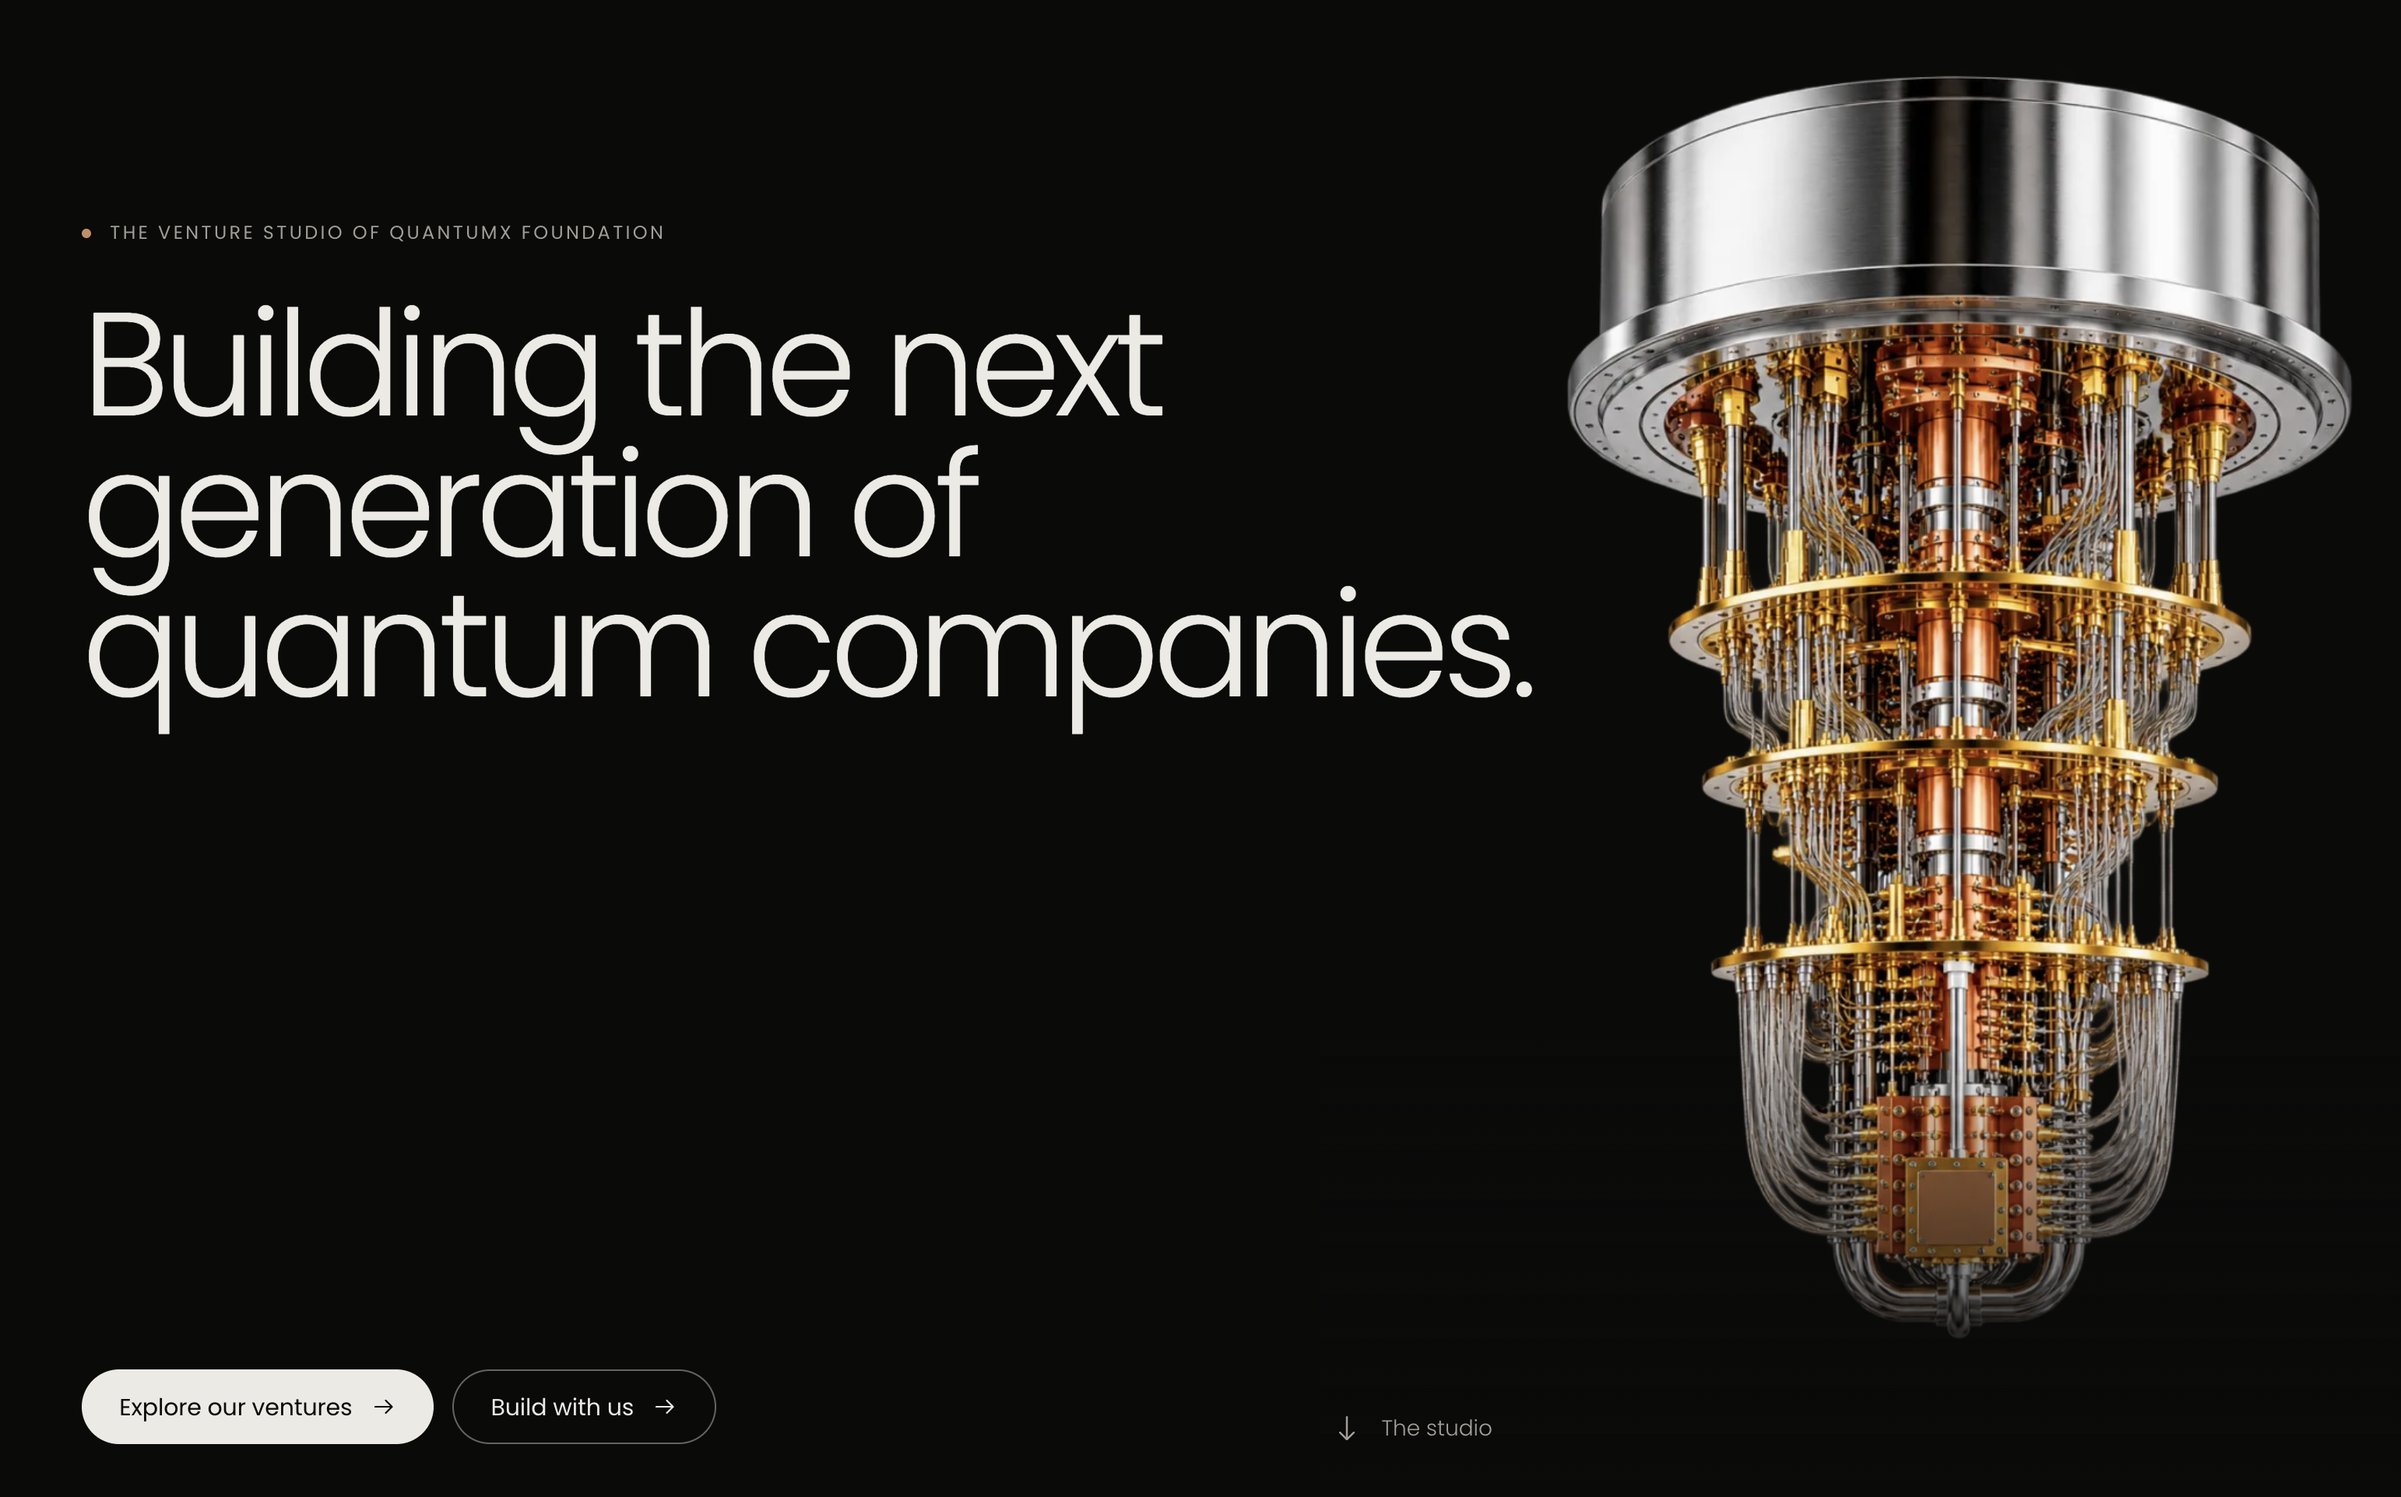
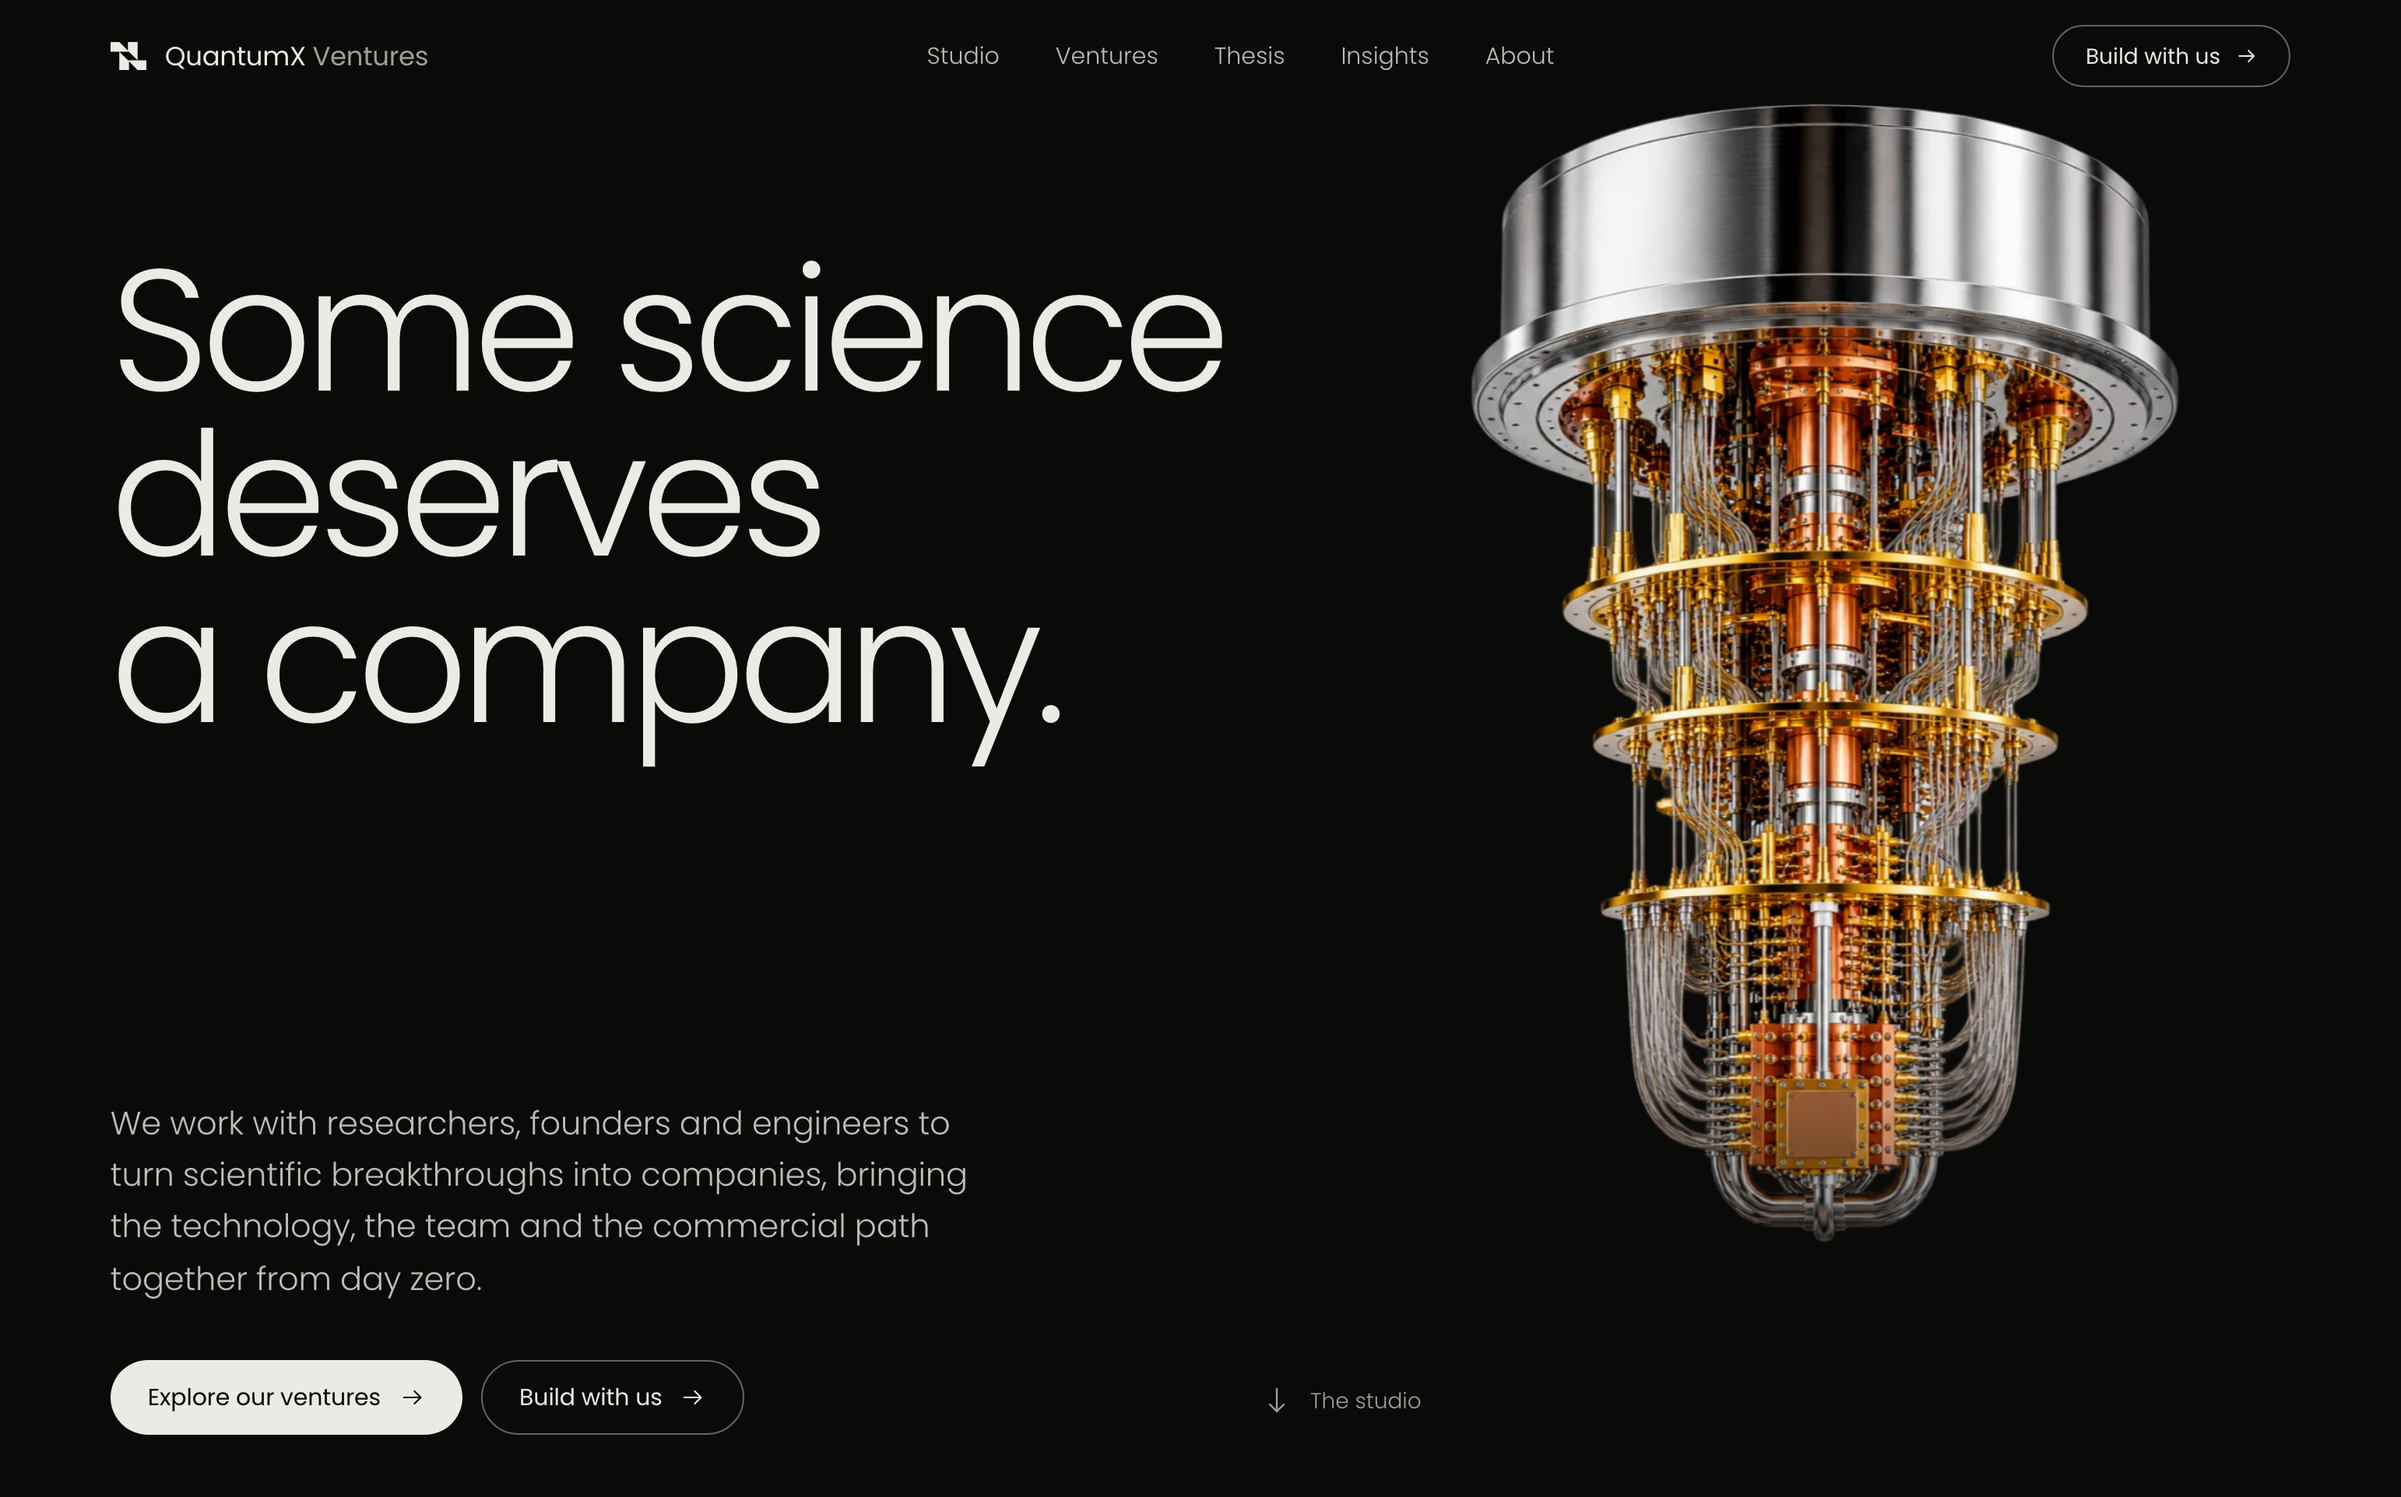
Change hero headline to "Some science deserves a company."
Update the hero, tagline (homepage preview title and structured data
slogan) and the homepage share image, re-shot from the new hero. Larger
headline on desktop and phones to suit the shorter lines.

diff --git a/components/sections/hero.tsx b/components/sections/hero.tsx
@@ -34,12 +34,12 @@ export function Hero() {
       <div className="container-site relative flex min-h-[100svh] flex-col pb-10 pt-[calc(var(--header-h)+clamp(2.5rem,9vh,7rem))] lg:min-h-[max(100svh,680px)]">
         <h1
           id="hero-title"
-          className="animate-rise max-w-[11ch] text-mega font-light lg:max-w-none lg:text-[min(5.5vw,10.5vh)]"
+          className="animate-rise max-w-[11ch] text-mega font-light max-lg:text-[clamp(2.75rem,12.8vw,5.5rem)] lg:max-w-none lg:text-[min(7.2vw,12vh)]"
           style={{ ['--delay' as string]: '140ms' }}
         >
           {/* Three set lines on desktop; natural wrapping on smaller screens. */}
-          <span className="lg:block">Building the next</span> <span className="lg:block">generation of</span>{' '}
-          <span className="lg:block">quantum companies.</span>
+          <span className="lg:block">Some science</span> <span className="lg:block">deserves</span>{' '}
+          <span className="lg:block">a company.</span>
         </h1>
 
         {/* Mobile and tablet: the image sits in the flow below the headline. */}

diff --git a/content/site.ts b/content/site.ts
@@ -10,7 +10,7 @@ export const site = {
   shortName: 'QX Ventures',
   /** Canonical production URL. The Foundation site links to this domain. */
   url: 'https://quantumx.ventures',
-  tagline: 'Building the next generation of quantum companies.',
+  tagline: 'Some science deserves a company.',
   /** Default meta description. Keep under 160 characters. */
   description:
     'QuantumX Ventures is a venture studio for quantum technology, building and scaling quantum companies with the researchers, founders and engineers behind them.',

diff --git a/lib/metadata.ts b/lib/metadata.ts
@@ -10,7 +10,7 @@ export function ogImage(slug: OgImageSlug, alt: string) {
 
 export const homeOgImage = ogImage(
   'home',
-  'QuantumX Ventures: Building the next generation of quantum companies. A dilution refrigerator of a quantum computer beside the headline.',
+  'QuantumX Ventures: Some science deserves a company. A dilution refrigerator of a quantum computer beside the headline.',
 );
 
 /**
